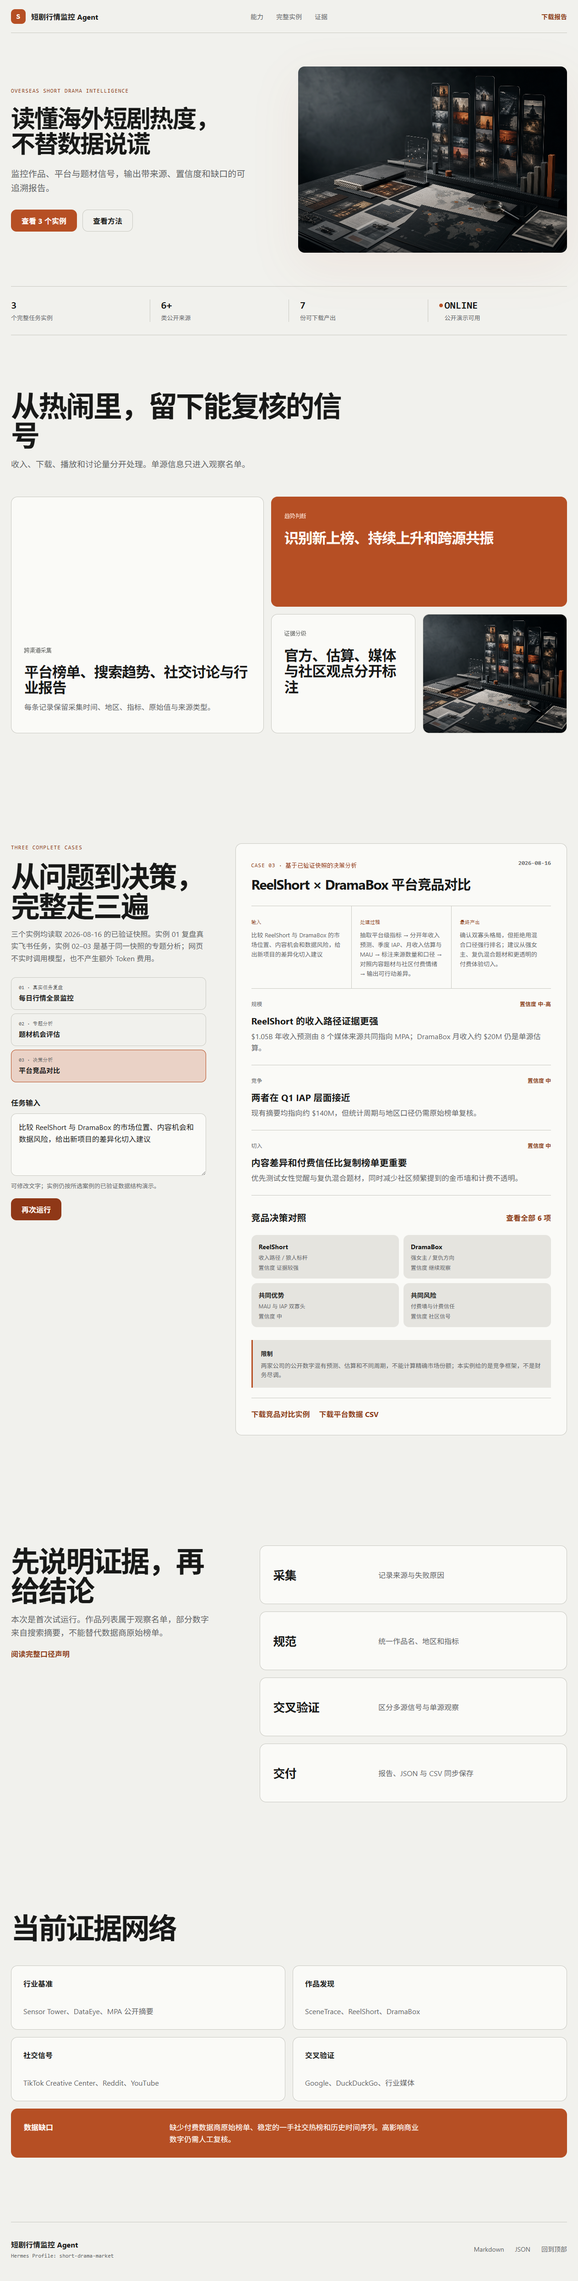
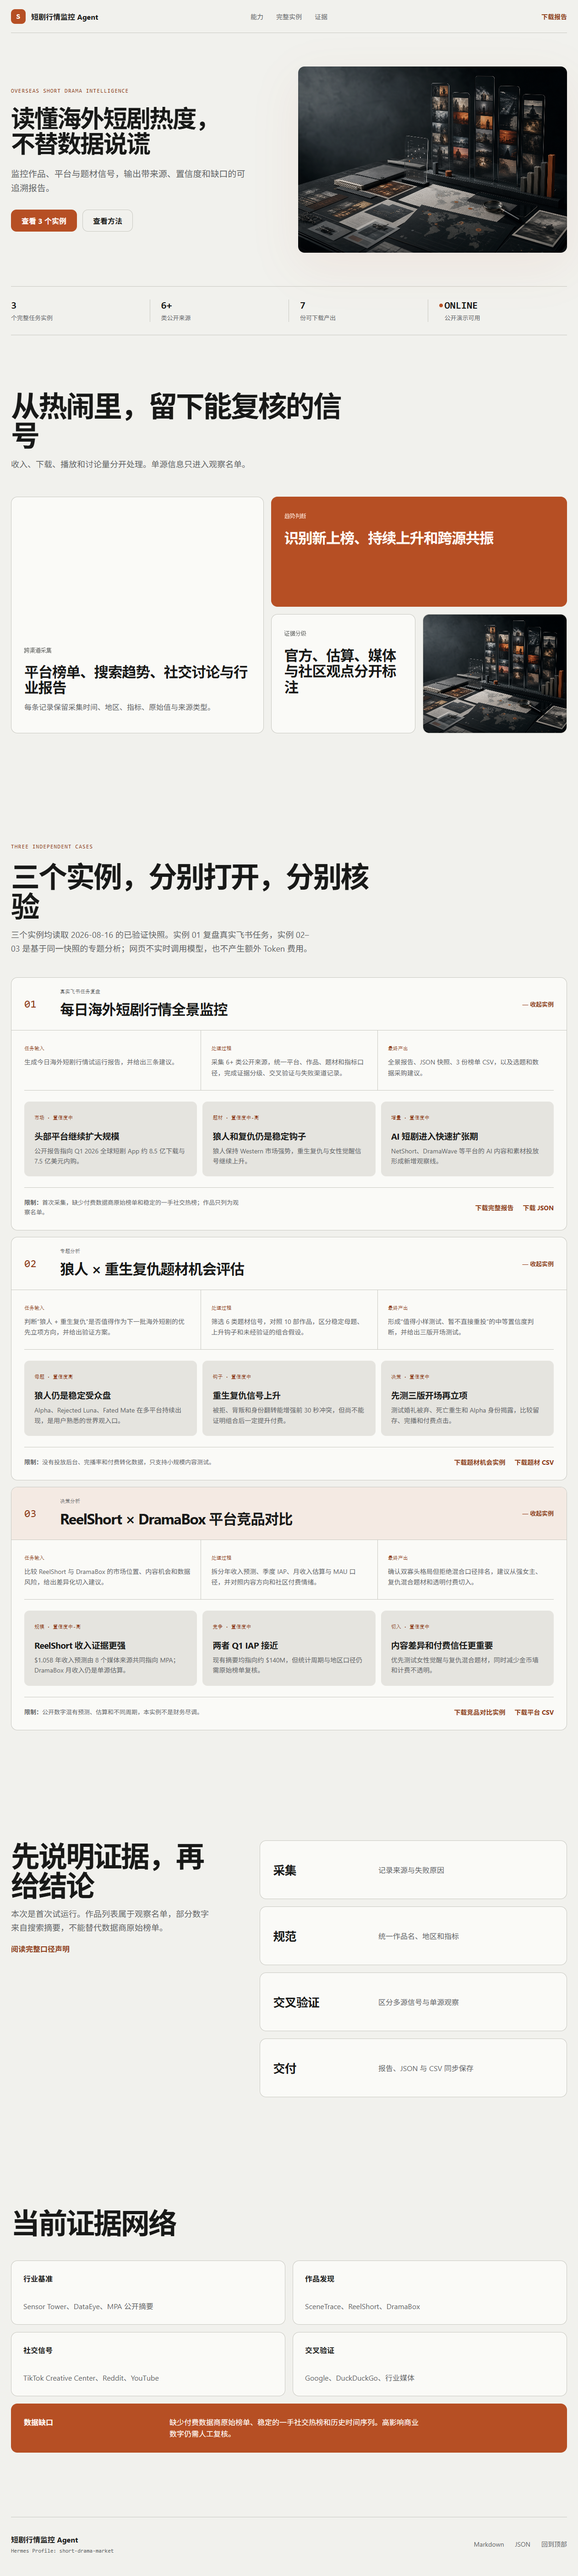
make three case studies independently usable

diff --git a/index.html b/index.html
@@ -9,7 +9,6 @@
   <meta property="og:description" content="可追溯的海外短剧榜单、趋势变化和风险提示。">
   <meta property="og:image" content="/assets/market-intelligence-hero.png">
   <link rel="stylesheet" href="/styles.css">
-  <script src="/script.js" defer></script>
 </head>
 <body>
   <main>
@@ -73,69 +72,76 @@
       </div>
     </section>
 
-    <section class="section demo-section" id="demo">
-      <div class="demo-intro">
-        <p class="eyebrow">Three complete cases</p>
-        <h2>从问题到决策，完整走三遍</h2>
+    <section class="section cases-section" id="demo">
+      <div class="cases-heading">
+        <p class="eyebrow">Three independent cases</p>
+        <h2>三个实例，分别打开，分别核验</h2>
         <p>三个实例均读取 2026-08-16 的已验证快照。实例 01 复盘真实飞书任务，实例 02–03 是基于同一快照的专题分析；网页不实时调用模型，也不产生额外 Token 费用。</p>
-        <div class="case-tabs" role="tablist" aria-label="选择任务实例">
-          <button class="case-tab is-active" type="button" role="tab" aria-selected="true" data-case="market">
-            <span>01 · 真实任务复盘</span><strong>每日行情全景监控</strong>
-          </button>
-          <button class="case-tab" type="button" role="tab" aria-selected="false" data-case="genre">
-            <span>02 · 专题分析</span><strong>题材机会评估</strong>
-          </button>
-          <button class="case-tab" type="button" role="tab" aria-selected="false" data-case="competitor">
-            <span>03 · 决策分析</span><strong>平台竞品对比</strong>
-          </button>
-        </div>
-        <form id="demo-form" novalidate>
-          <label for="task">任务输入</label>
-          <textarea id="task" aria-describedby="task-help" rows="4">生成今日海外短剧行情试运行报告，并给出三条建议</textarea>
-          <p id="task-help" class="form-help">可修改文字；实例仍按所选案例的已验证数据结构演示。</p>
-          <p class="form-error" id="form-error" role="alert" hidden>请先输入监控任务。</p>
-          <button class="button button-primary" id="run-button" type="submit">开始运行</button>
-        </form>
       </div>
 
-      <div class="run-panel" aria-live="polite">
-        <div class="empty-state" id="idle-state">
-          <span>READY</span>
-          <h3>等待任务</h3>
-          <p>运行后将显示市场变化、作品观察名单、题材趋势与数据缺口。</p>
-        </div>
-        <div class="loading-state" id="loading-state" aria-label="正在运行" hidden>
-          <div class="skeleton skeleton-wide"></div>
-          <div class="skeleton"></div>
-          <div class="skeleton"></div>
-          <div class="skeleton skeleton-short"></div>
-        </div>
-        <div class="empty-state error-state" id="error-state" hidden>
-          <span>INPUT REQUIRED</span>
-          <h3>任务不能为空</h3>
-          <p>补充一句你希望监控的市场问题，再次运行。</p>
-        </div>
-        <div class="result-state" id="result-state" hidden>
-          <div class="result-header">
-            <div><span id="result-kind">RUN COMPLETE</span><h3 id="result-title">海外短剧行情试运行报告</h3></div>
-            <strong id="result-date">2026-08-16</strong>
-          </div>
-          <div class="run-context">
-            <article><span>输入</span><p id="result-input"></p></article>
-            <article><span>处理过程</span><p id="result-process"></p></article>
-            <article><span>最终产出</span><p id="result-output"></p></article>
-          </div>
-          <div class="finding-list" id="result-findings"></div>
-          <div class="works-block">
-            <div class="works-heading">
-              <h4 id="detail-title">热门作品观察名单</h4>
-              <button type="button" id="toggle-works" aria-expanded="false">查看全部</button>
+      <div class="case-list">
+        <details class="case-instance" open>
+          <summary>
+            <span class="case-number">01</span>
+            <span class="case-summary"><small>真实飞书任务复盘</small><strong>每日海外短剧行情全景监控</strong></span>
+            <span class="case-toggle"><span class="when-open">收起实例</span><span class="when-closed">展开完整实例</span></span>
+          </summary>
+          <div class="case-body">
+            <div class="case-context">
+              <article><span>任务输入</span><p>生成今日海外短剧行情试运行报告，并给出三条建议。</p></article>
+              <article><span>处理过程</span><p>采集 6+ 类公开来源，统一平台、作品、题材和指标口径，完成证据分级、交叉验证与失败渠道记录。</p></article>
+              <article><span>最终产出</span><p>全景报告、JSON 快照、3 份榜单 CSV，以及选题和数据采购建议。</p></article>
             </div>
-            <div class="work-grid" id="work-grid"></div>
+            <div class="case-findings">
+              <article><span>市场 · 置信度中</span><h3>头部平台继续扩大规模</h3><p>公开报告指向 Q1 2026 全球短剧 App 约 8.5 亿下载与 7.5 亿美元内购。</p></article>
+              <article><span>题材 · 置信度中-高</span><h3>狼人和复仇仍是稳定钩子</h3><p>狼人保持 Western 市场强势，重生复仇与女性觉醒信号继续上升。</p></article>
+              <article><span>增量 · 置信度中</span><h3>AI 短剧进入快速扩张期</h3><p>NetShort、DramaWave 等平台的 AI 内容和素材投放形成新增观察线。</p></article>
+            </div>
+            <div class="case-footer"><p><strong>限制：</strong>首次采集，缺少付费数据商原始榜单和稳定的一手社交热榜；作品只列为观察名单。</p><div><a href="/downloads/2026-08-16-short-drama-market-report.md" download>下载完整报告</a><a href="/downloads/2026-08-16-short-drama-snapshot.json" download>下载 JSON</a></div></div>
           </div>
-          <div class="case-limit"><strong>限制</strong><p id="result-limit"></p></div>
-          <div class="result-actions" id="result-actions"></div>
-        </div>
+        </details>
+
+        <details class="case-instance">
+          <summary>
+            <span class="case-number">02</span>
+            <span class="case-summary"><small>专题分析</small><strong>狼人 × 重生复仇题材机会评估</strong></span>
+            <span class="case-toggle"><span class="when-open">收起实例</span><span class="when-closed">展开完整实例</span></span>
+          </summary>
+          <div class="case-body">
+            <div class="case-context">
+              <article><span>任务输入</span><p>判断“狼人 + 重生复仇”是否值得作为下一批海外短剧的优先立项方向，并给出验证方案。</p></article>
+              <article><span>处理过程</span><p>筛选 6 类题材信号，对照 10 部作品，区分稳定母题、上升钩子和未经验证的组合假设。</p></article>
+              <article><span>最终产出</span><p>形成“值得小样测试、暂不直接重投”的中等置信度判断，并给出三版开场测试。</p></article>
+            </div>
+            <div class="case-findings">
+              <article><span>母题 · 置信度高</span><h3>狼人仍是稳定受众盘</h3><p>Alpha、Rejected Luna、Fated Mate 在多平台持续出现，是用户熟悉的世界观入口。</p></article>
+              <article><span>钩子 · 置信度中</span><h3>重生复仇信号上升</h3><p>被拒、背叛和身份翻转能增强前 30 秒冲突，但尚不能证明组合后一定提升付费。</p></article>
+              <article><span>决策 · 置信度中</span><h3>先测三版开场再立项</h3><p>测试婚礼被弃、死亡重生和 Alpha 身份揭露，比较留存、完播和付费点击。</p></article>
+            </div>
+            <div class="case-footer"><p><strong>限制：</strong>没有投放后台、完播率和付费转化数据，只支持小规模内容测试。</p><div><a href="/downloads/case-02-genre-opportunity.md" download>下载题材机会实例</a><a href="/downloads/2026-08-16-genre-trends.csv" download>下载题材 CSV</a></div></div>
+          </div>
+        </details>
+
+        <details class="case-instance">
+          <summary>
+            <span class="case-number">03</span>
+            <span class="case-summary"><small>决策分析</small><strong>ReelShort × DramaBox 平台竞品对比</strong></span>
+            <span class="case-toggle"><span class="when-open">收起实例</span><span class="when-closed">展开完整实例</span></span>
+          </summary>
+          <div class="case-body">
+            <div class="case-context">
+              <article><span>任务输入</span><p>比较 ReelShort 与 DramaBox 的市场位置、内容机会和数据风险，给出差异化切入建议。</p></article>
+              <article><span>处理过程</span><p>拆分年收入预测、季度 IAP、月收入估算与 MAU 口径，并对照内容方向和社区付费情绪。</p></article>
+              <article><span>最终产出</span><p>确认双寡头格局但拒绝混合口径排名，建议从强女主、复仇混合题材和透明付费切入。</p></article>
+            </div>
+            <div class="case-findings">
+              <article><span>规模 · 置信度中-高</span><h3>ReelShort 收入证据更强</h3><p>$1.05B 年收入预测由 8 个媒体来源共同指向 MPA；DramaBox 月收入仍是单源估算。</p></article>
+              <article><span>竞争 · 置信度中</span><h3>两者 Q1 IAP 接近</h3><p>现有摘要均指向约 $140M，但统计周期与地区口径仍需原始榜单复核。</p></article>
+              <article><span>切入 · 置信度中</span><h3>内容差异和付费信任更重要</h3><p>优先测试女性觉醒与复仇混合题材，同时减少金币墙和计费不透明。</p></article>
+            </div>
+            <div class="case-footer"><p><strong>限制：</strong>公开数字混有预测、估算和不同周期，本实例不是财务尽调。</p><div><a href="/downloads/case-03-platform-competition.md" download>下载竞品对比实例</a><a href="/downloads/2026-08-16-app-market.csv" download>下载平台 CSV</a></div></div>
+          </div>
+        </details>
       </div>
     </section>
 

diff --git a/styles.css b/styles.css
@@ -237,6 +237,41 @@ form .button { justify-self: start; margin-top: 6px; }
 .case-limit strong { font-size: 13px; }
 .case-limit p { margin: 7px 0 0; color: var(--muted); font-size: 13px; line-height: 1.55; }
 
+.cases-section { width: min(1400px, calc(100% - 48px)); }
+.cases-heading { max-width: 820px; margin-bottom: 48px; }
+.cases-heading > p:last-child { max-width: 68ch; color: var(--muted); font-size: 18px; line-height: 1.65; }
+.case-list { display: grid; gap: 14px; }
+.case-instance { border: 1px solid var(--line); border-radius: var(--radius); background: var(--surface); overflow: hidden; }
+.case-instance summary {
+  min-height: 112px; padding: 24px 28px; display: grid; grid-template-columns: 56px 1fr auto;
+  gap: 22px; align-items: center; cursor: pointer; list-style: none; transition: background 180ms ease;
+}
+.case-instance summary::-webkit-details-marker { display: none; }
+.case-instance summary:hover { background: color-mix(in srgb, var(--accent-soft) 40%, var(--surface)); }
+.case-instance summary:focus-visible { outline: 3px solid var(--accent-soft); outline-offset: -3px; }
+.case-number { font-family: "Cascadia Mono", "SFMono-Regular", Consolas, monospace; font-size: 24px; color: var(--accent-strong); }
+.case-summary { display: grid; gap: 7px; }
+.case-summary small { color: var(--muted); font-family: "Cascadia Mono", "SFMono-Regular", Consolas, monospace; font-size: 11px; }
+.case-summary strong { font-size: clamp(21px, 2.5vw, 32px); letter-spacing: -0.035em; }
+.case-toggle { min-width: 112px; color: var(--accent-strong); font-size: 13px; font-weight: 650; text-align: right; }
+.case-instance[open] .case-toggle::before { content: "— "; }
+.case-instance:not([open]) .case-toggle::before { content: "+ "; }
+.case-instance[open] .when-closed, .case-instance:not([open]) .when-open { display: none; }
+.case-body { padding: 0 28px 28px; border-top: 1px solid var(--line); }
+.case-context { display: grid; grid-template-columns: repeat(3, 1fr); }
+.case-context article { padding: 26px 22px 26px 0; }
+.case-context article + article { padding-left: 22px; border-left: 1px solid var(--line); }
+.case-context span, .case-findings span { color: var(--accent-strong); font-family: "Cascadia Mono", "SFMono-Regular", Consolas, monospace; font-size: 11px; }
+.case-context p { margin: 10px 0 0; color: var(--muted); font-size: 14px; line-height: 1.65; }
+.case-findings { display: grid; grid-template-columns: repeat(3, 1fr); gap: 12px; padding: 24px 0; border-top: 1px solid var(--line); }
+.case-findings article { padding: 22px; border-radius: 11px; background: var(--surface-2); }
+.case-findings h3 { margin: 18px 0 9px; font-size: 19px; letter-spacing: -0.025em; }
+.case-findings p { margin: 0; color: var(--muted); font-size: 14px; line-height: 1.6; }
+.case-footer { padding-top: 22px; display: flex; justify-content: space-between; gap: 28px; align-items: center; border-top: 1px solid var(--line); }
+.case-footer > p { max-width: 68ch; margin: 0; color: var(--muted); font-size: 13px; line-height: 1.6; }
+.case-footer > div { display: flex; gap: 20px; flex-shrink: 0; }
+.case-footer a { color: var(--accent-strong); font-size: 14px; font-weight: 650; }
+
 .evidence-section { display: grid; grid-template-columns: 0.8fr 1.2fr; gap: 96px; align-items: start; }
 .evidence-copy { position: sticky; top: 40px; }
 .method-flow { display: grid; gap: 16px; }
@@ -274,6 +309,10 @@ footer span { color: var(--muted); font-family: "Cascadia Mono", "SFMono-Regular
   .capability-grid article { min-height: 220px; }
   .demo-section, .evidence-section { grid-template-columns: 1fr; gap: 48px; }
   .demo-intro, .evidence-copy { position: static; }
+  .case-context, .case-findings { grid-template-columns: 1fr; }
+  .case-context article { padding: 20px 0; }
+  .case-context article + article { padding-left: 0; border-left: 0; border-top: 1px solid var(--line); }
+  .case-footer { align-items: flex-start; flex-direction: column; }
 }
 
 @media (max-width: 620px) {
@@ -299,6 +338,10 @@ footer span { color: var(--muted); font-family: "Cascadia Mono", "SFMono-Regular
   .method-flow > div, .limitations { grid-template-columns: 1fr; }
   .result-actions, footer { flex-direction: column; }
   .footer-links { flex-wrap: wrap; }
+  .case-instance summary { min-height: 96px; padding: 20px 18px; grid-template-columns: 40px 1fr; gap: 12px; }
+  .case-toggle { grid-column: 2; min-width: 0; text-align: left; }
+  .case-body { padding: 0 18px 20px; }
+  .case-footer > div { flex-direction: column; gap: 10px; }
 }
 
 @media (prefers-reduced-motion: reduce) {
